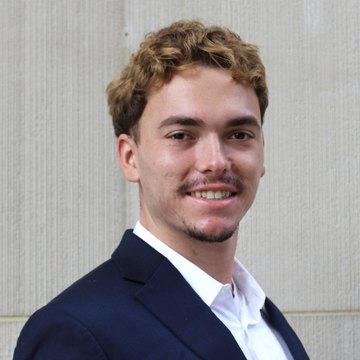
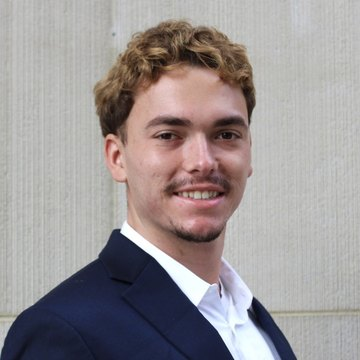
Fix hyphenated words jumping lines after decode; nudge headshot crop back left
Claude-Session: https://claude.ai/code/session_01Vc34RX6fnqPr4rhURtZsqj

diff --git a/site.js b/site.js
@@ -26,15 +26,19 @@
       node.nodeValue.split(/(\s+)/).forEach(function (tok) {
         if (!tok) return;
         if (/^\s+$/.test(tok)) { var t = document.createTextNode(tok); frag.appendChild(t); made.push(t); return; }
-        var word = document.createElement('span');
-        word.style.whiteSpace = 'nowrap';
-        Array.prototype.forEach.call(tok, function (ch) {
-          var c = document.createElement('span');
-          c.textContent = ch;
-          word.appendChild(c);
-          cells.push({ el: c, ch: ch });
+        // Keep the browser's own break points: split after hyphens and slashes
+        // so a word like "Indo-Pacific" wraps exactly as it does when finished.
+        tok.split(/(?<=[-\u2010-\u2014\/])/).forEach(function (seg) {
+          var word = document.createElement('span');
+          word.style.whiteSpace = 'nowrap';
+          Array.prototype.forEach.call(seg, function (ch) {
+            var c = document.createElement('span');
+            c.textContent = ch;
+            word.appendChild(c);
+            cells.push({ el: c, ch: ch });
+          });
+          frag.appendChild(word); made.push(word);
         });
-        frag.appendChild(word); made.push(word);
       });
       swaps.push({ node: node, made: made });
       node.parentNode.replaceChild(frag, node);
